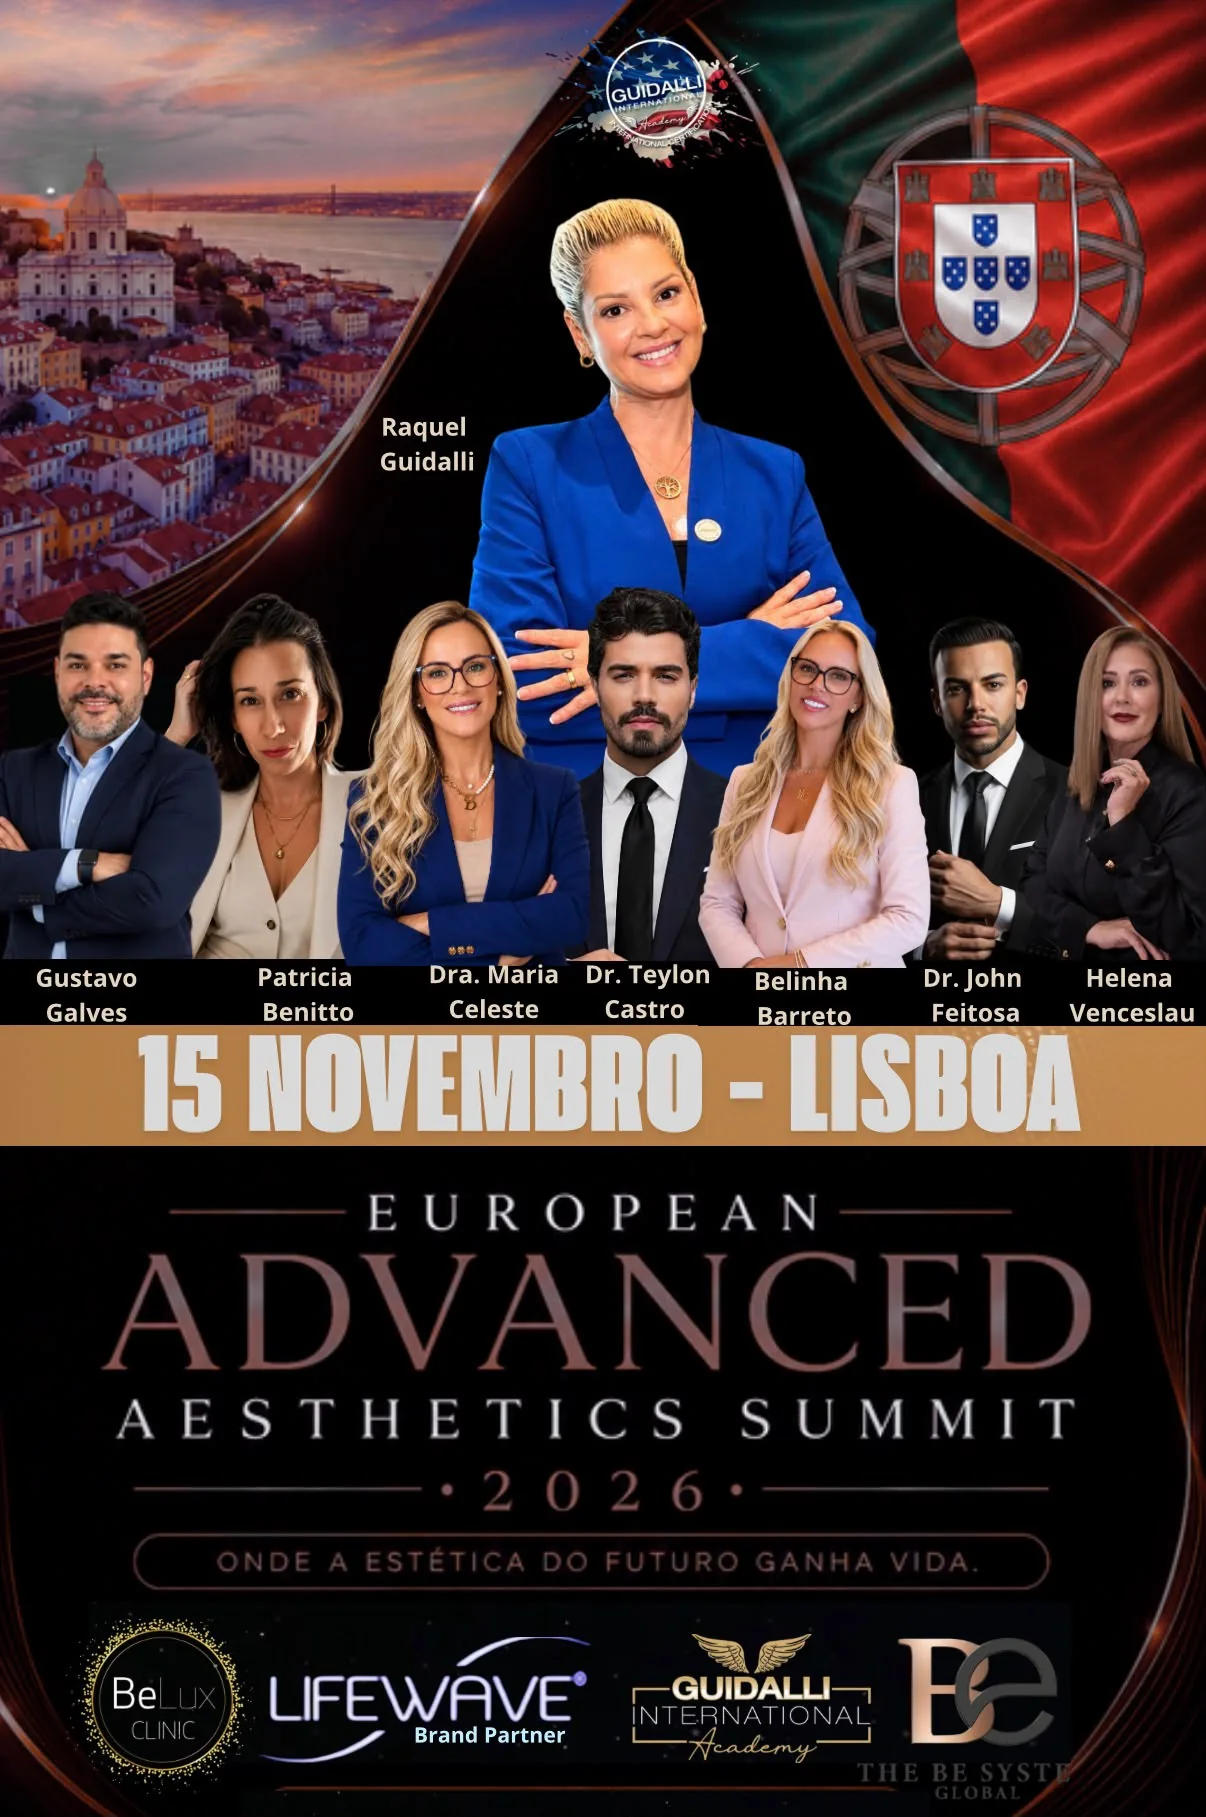
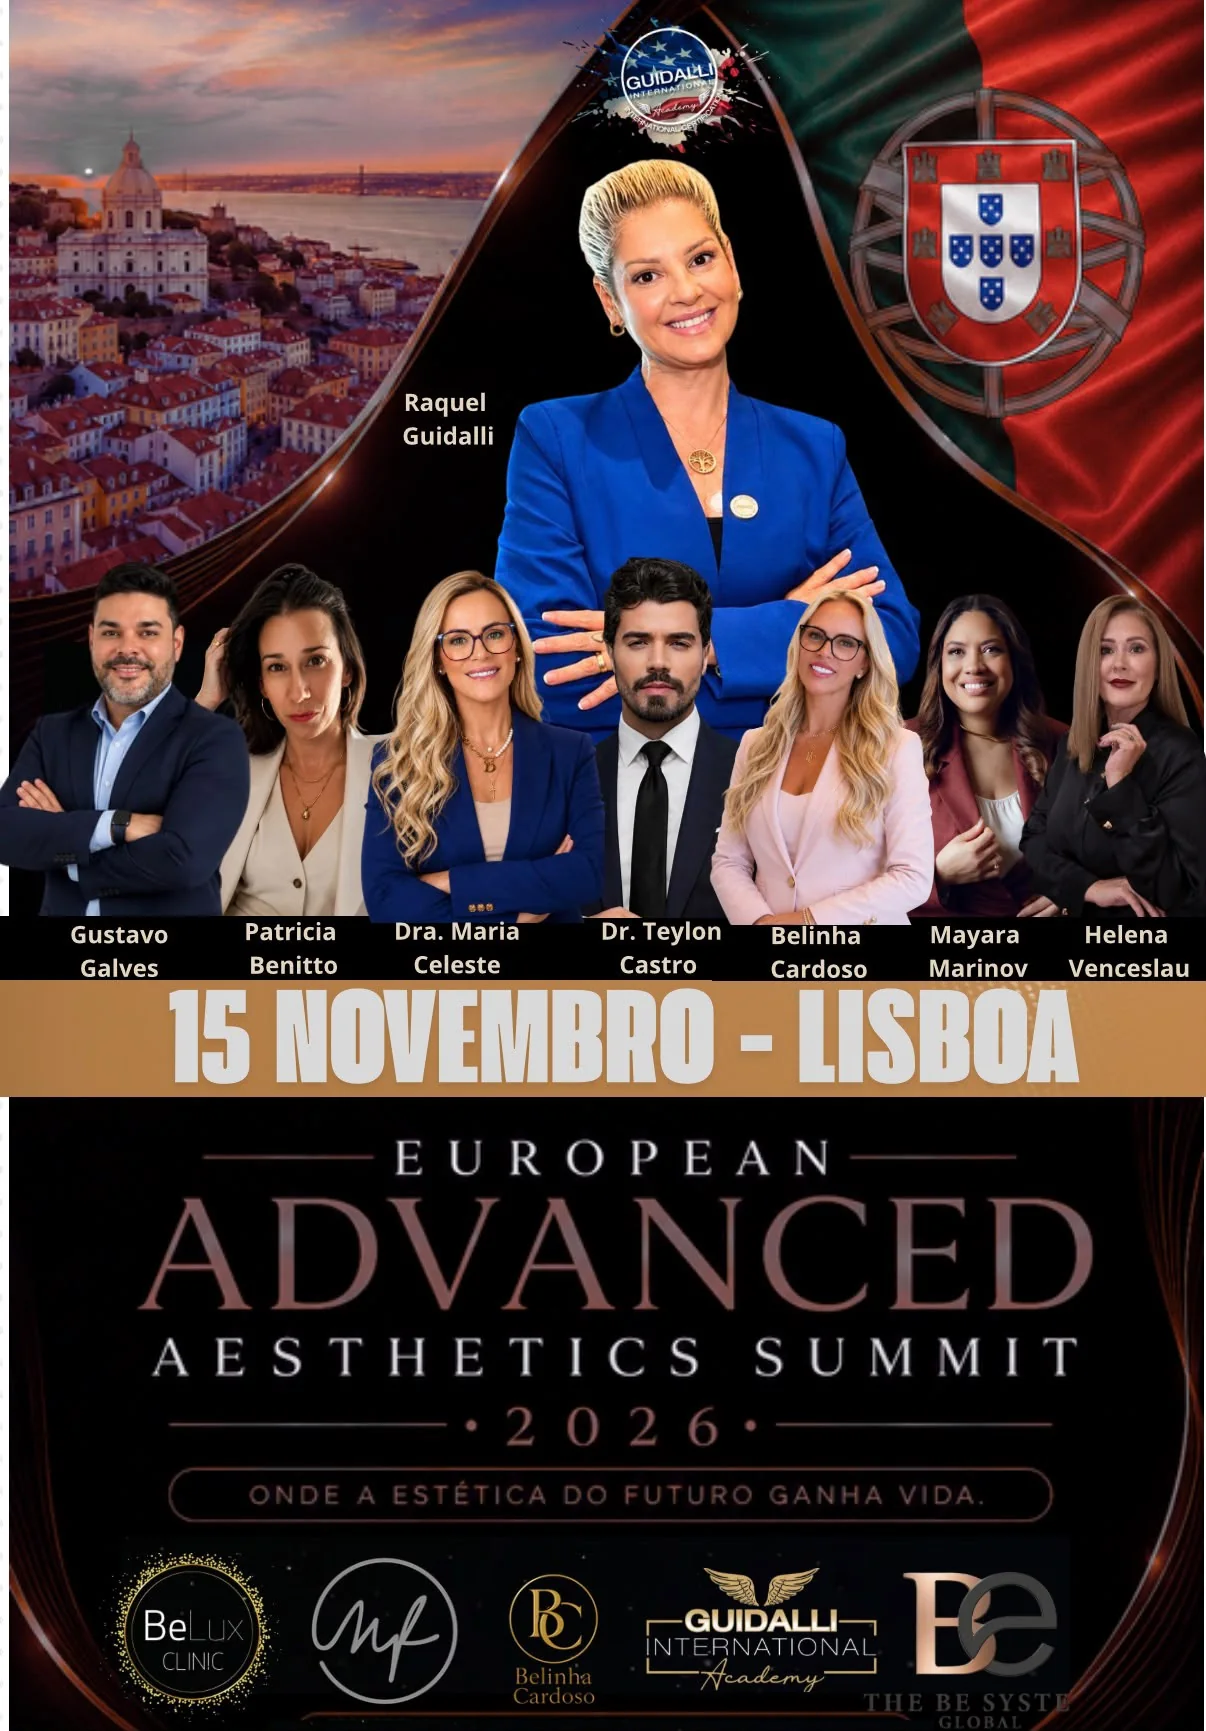
Mayara Marinov no lugar do Dr. John Feitosa; cartaz oficial atualizado
Claude-Session: https://claude.ai/code/session_011LVKnF5vbZ6n9tKVFofgAd

diff --git a/data/schedule.ts b/data/schedule.ts
@@ -32,7 +32,7 @@ export const schedule: Slot[] = [
   { start: "15:55", end: "16:25", speaker: by("maria-celeste-barreto"), kind: "talk" },
   { start: "16:30", end: "17:00", title: "Coffee break e networking", kind: "break" },
   { start: "17:00", end: "17:30", title: "Painel profissional", kind: "moment" },
-  { start: "17:30", end: "18:00", speaker: by("john-feitosa"), kind: "talk" },
+  { start: "17:30", end: "18:00", speaker: by("mayara-marinov"), kind: "talk" },
   { start: "18:05", end: "18:35", speaker: by("patricia-benitto"), kind: "talk" },
   { start: "18:35", end: "19:05", speaker: by("teylon-castro"), kind: "talk" },
   { start: "19:05", end: "19:30", speaker: organizer, kind: "talk" },

diff --git a/components/FinalCTA.tsx b/components/FinalCTA.tsx
@@ -45,7 +45,7 @@ export default function FinalCTA() {
           <figure className="mx-auto w-full max-w-[26rem] lg:max-w-none">
             <div
               data-reveal="image"
-              className="relative aspect-[1206/1817] overflow-hidden rounded-[20px] border border-champagne/25 bg-ink-2 shadow-[0_40px_80px_-40px_rgb(0_0_0/0.9)]"
+              className="relative aspect-[1206/1731] overflow-hidden rounded-[20px] border border-champagne/25 bg-ink-2 shadow-[0_40px_80px_-40px_rgb(0_0_0/0.9)]"
             >
               <Img
                 name="cartaz-oficial"

diff --git a/data/speakers.ts b/data/speakers.ts
@@ -59,12 +59,12 @@ export const speakers: Speaker[] = [
     bio: null,
   },
   {
-    id: "john-feitosa",
-    name: "Dr. John Feitosa",
-    role: "Orador",
-    // Assim no cronograma oficial: o tema só é revelado no dia.
-    topic: "Surpresa",
-    image: "john-feitosa",
+    id: "mayara-marinov",
+    name: "Mayara Marinov",
+    role: "Oradora",
+    // Entrou no lugar do Dr. John Feitosa; tema ainda não confirmado.
+    topic: null,
+    image: "mayara-marinov",
     bio: null,
   },
   {

diff --git a/scripts/process-images.py b/scripts/process-images.py
@@ -4,7 +4,7 @@ Gera as imagens otimizadas (WebP em várias larguras) em public/images e o manif
 Uso (na raiz do projeto):  python scripts/process-images.py public/images
 
 Fontes em assets-src/:
-  fotos/     originais enviados (ipdj-auditorio.webp = auditório IPDJ, 16 = John Feitosa, 17 = Teylon Castro,
+  fotos/     originais enviados (ipdj-auditorio.webp = auditório IPDJ, 71 = Mayara Marinov, 17 = Teylon Castro,
              19 = Danny Gomes, 20 = Belinha Cardoso, 22 = Maria Celeste Barreto,
              25 = Gustavo Galves)
   recortes/  fundos removidos com rembg (18 = Raquel Guidalli, 21 = Helena Venceslau)
@@ -102,10 +102,7 @@ save("belinha-cardoso", crop45(src(20), (0, 90, 1023, 1369)), [480, 800])
 save("maria-celeste-barreto", crop45(src(22), (0, 70, 1023, 1349)), [480, 800])
 save("teylon-castro", crop45(src(17), (0, 40, 1024, 1320)), [480, 800])
 
-john = src(16)
-pad = Image.new("RGB", (794, 1060), john.getpixel((20, 20)))
-pad.paste(john, (0, 60))
-save("john-feitosa", pad.crop((0, 0, 794, 992)), [480, 794])
+save("mayara-marinov", crop45(src(71), (0, 70, 1066, 1402)), [480, 800])
 
 save("helena-venceslau", on_backdrop(hel, (70, 20, 1090, 1295), (0.5, 0.25)), [480, 800])
 # Patricia: foto do cartaz individual (57), recortada (isnet) e posta no fundo escuro dos outros recortes
